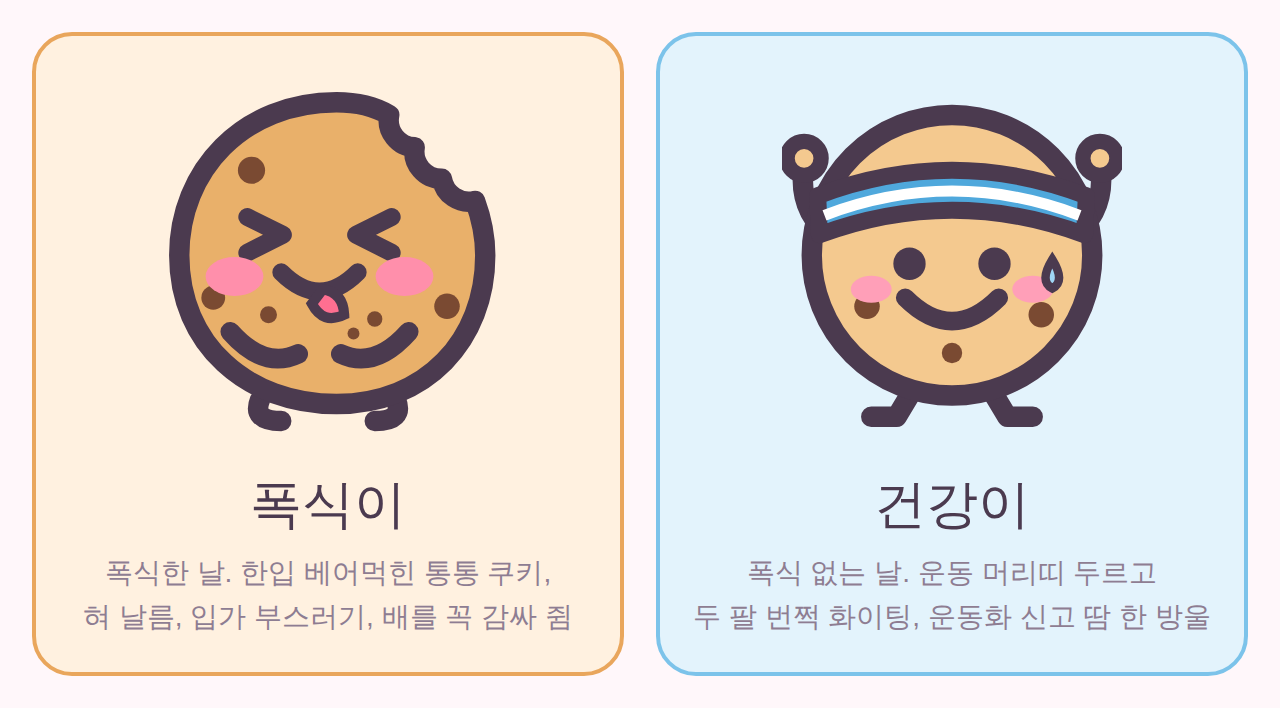
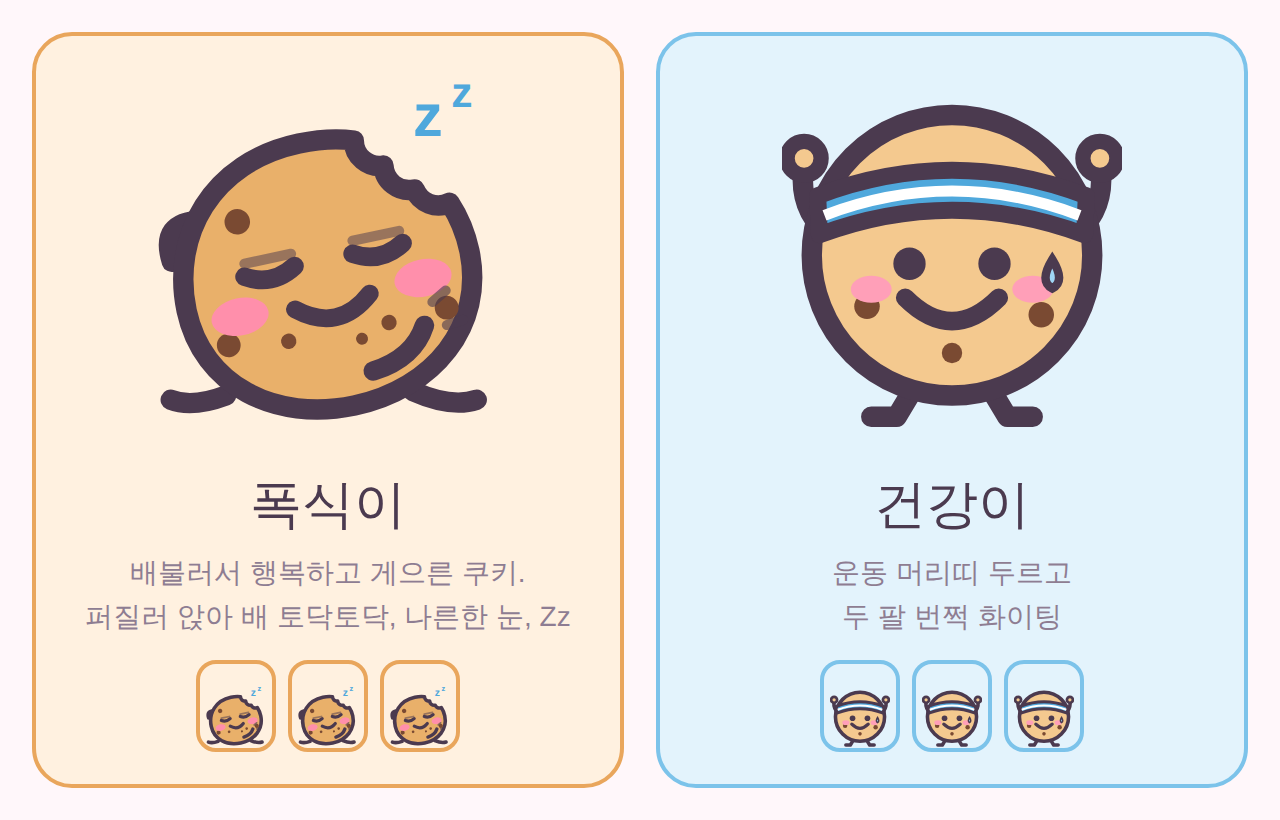
Make 폭식이 lazy and content: slouched, sleepy eyes, belly pat, Zz
Claude-Session: https://claude.ai/code/session_01D68hpE9EAyDwW3YvrEEF6Q

diff --git a/characters.js b/characters.js
@@ -108,17 +108,24 @@ export function gang(mood = 'happy') {
 const CHIP = '#7a4a32';
 const PINK = '#ff8fab';
 
-// 폭식이: 한입 베어먹힌 통통 쿠키, 혀 날름, 입가 부스러기, 두 손으로 배를 감싸 쥠
+// 폭식이: 배불러서 행복하고 게으른 쿠키. 비스듬히 퍼져 앉아 한 팔은 머리 뒤로 베고,
+// 한 손으로 배를 토닥토닥. 반쯤 감긴 나른한 눈, 흐뭇한 입, 입가 부스러기, 머리 위 Zz
 const POKSIK = `
-  <path d="M12 39 q-1 2.5 2.5 2.5 M28 39 q1 2.5 -2.5 2.5" fill="none" stroke="${INK}" stroke-width="2.4" stroke-linecap="round"/>
-  <path d="M21 4 C10 4 2.5 12 2.5 22 C2.5 32.5 10.5 39.5 21 39.5 C31.5 39.5 38.5 32 38.5 22 C38.5 19.5 38 17.5 37.3 15.6 a3.2 3.2 0 0 1 -3.9 -2.6 a3.2 3.2 0 0 1 -3.2 -3.7 a3.2 3.2 0 0 1 -3 -3.8 C25.5 4.5 23.4 4 21 4Z" fill="#e9b06a" stroke="${INK}" stroke-width="2.4" stroke-linejoin="round"/>
-  <circle cx="11" cy="12" r="1.6" fill="${CHIP}"/><circle cx="6.5" cy="27" r="1.4" fill="${CHIP}"/><circle cx="34" cy="28" r="1.5" fill="${CHIP}"/>
-  <path d="M10.5 17.5 l4.2 2.1 l-4.2 2.1 M27.5 17.5 l-4.2 2.1 l4.2 2.1" fill="none" stroke="${INK}" stroke-width="2.1" stroke-linecap="round" stroke-linejoin="round"/>
-  <ellipse cx="9" cy="24.5" rx="3.4" ry="2.3" fill="${PINK}"/><ellipse cx="29" cy="24.5" rx="3.4" ry="2.3" fill="${PINK}"/>
-  <path d="M14.5 24 q4.5 4.5 9 0" fill="none" stroke="${INK}" stroke-width="2.1" stroke-linecap="round"/>
-  <path d="M19.4 26 q2.4 .4 2.5 3 q-2.5 1.2 -3.8 -1.3z" fill="#ff6f91" stroke="${INK}" stroke-width="1.2"/>
-  <circle cx="13" cy="29" r="1" fill="${CHIP}"/><circle cx="25.5" cy="29.5" r=".9" fill="${CHIP}"/><circle cx="23" cy="31.2" r=".7" fill="${CHIP}"/>
-  <path d="M8.5 31 q4 4.5 8 2.6 M29.5 31 q-4 4.5 -8 2.6" fill="none" stroke="${INK}" stroke-width="2.3" stroke-linecap="round"/>`;
+  <path d="M8 38.5 q-4 1.5 -6.5 .5 M30 38 q4.5 2 7.5 1" fill="none" stroke="${INK}" stroke-width="2.4" stroke-linecap="round"/>
+  <g transform="rotate(-12 20 25)">
+    <path d="M7 15 q-5 -1 -4.5 4" fill="none" stroke="${INK}" stroke-width="2.4" stroke-linecap="round"/>
+    <path d="M20 8.5 C9.5 8.5 3 16 3 25 C3 34 10.5 40 20 40 C29.5 40 37 34 37 25 C37 22.8 36.6 20.8 35.9 19 a3 3 0 0 1 -3.7 -2.4 a3 3 0 0 1 -3 -3.5 a3 3 0 0 1 -2.8 -3.6 C24.5 8.8 22.3 8.5 20 8.5Z" fill="#e9b06a" stroke="${INK}" stroke-width="2.4" stroke-linejoin="round"/>
+    <circle cx="11" cy="16" r="1.5" fill="${CHIP}"/><circle cx="7" cy="30" r="1.4" fill="${CHIP}"/><circle cx="33" cy="31" r="1.4" fill="${CHIP}"/>
+    <path d="M10.5 22.5 q3 1.8 6 0 M23.5 22.5 q3 1.8 6 0" fill="none" stroke="${INK}" stroke-width="2.2" stroke-linecap="round"/>
+    <path d="M10.8 21 h5.6 M23.8 21 h5.6" stroke="${INK}" stroke-width="1.2" stroke-linecap="round" opacity=".5"/>
+    <ellipse cx="9" cy="27" rx="3.4" ry="2.2" fill="${PINK}"/><ellipse cx="31" cy="27" rx="3.4" ry="2.2" fill="${PINK}"/>
+    <path d="M15.5 27.5 q4.5 3.8 9 0" fill="none" stroke="${INK}" stroke-width="2.1" stroke-linecap="round"/>
+    <circle cx="14" cy="31" r=".9" fill="${CHIP}"/><circle cx="26" cy="31.3" r=".9" fill="${CHIP}"/><circle cx="22.5" cy="32.5" r=".7" fill="${CHIP}"/>
+    <path d="M23 36.5 q5 -.5 7 -4" fill="none" stroke="${INK}" stroke-width="2.3" stroke-linecap="round"/>
+    <path d="M31.5 30 l1.8 -1 M32.6 33 l2 -.2" stroke="${INK}" stroke-width="1.2" stroke-linecap="round" opacity=".6"/>
+  </g>
+  <text x="30" y="8" font-size="7" font-weight="700" fill="#4fa8dc" font-family="sans-serif">z</text>
+  <text x="34.5" y="4.5" font-size="5" font-weight="700" fill="#4fa8dc" font-family="sans-serif">z</text>`;
 
 // 건강이: 동그란 쿠키, 하늘색 운동 머리띠, 두 팔 번쩍 화이팅, 운동화
 const GEONGANG = `

diff --git a/sw.js b/sw.js
@@ -1,5 +1,5 @@
 // 오프라인용 서비스 워커: 항상 최신 파일을 먼저 받고, 인터넷이 없을 때만 저장본을 쓴다
-const CACHE = 'snackjournal-v23';
+const CACHE = 'snackjournal-v24';
 const ASSETS = ['./', './index.html', './style.css', './app.js', './db.js', './characters.js', './manifest.webmanifest', './icons/icon.svg'];
 
 self.addEventListener('install', (e) => {
